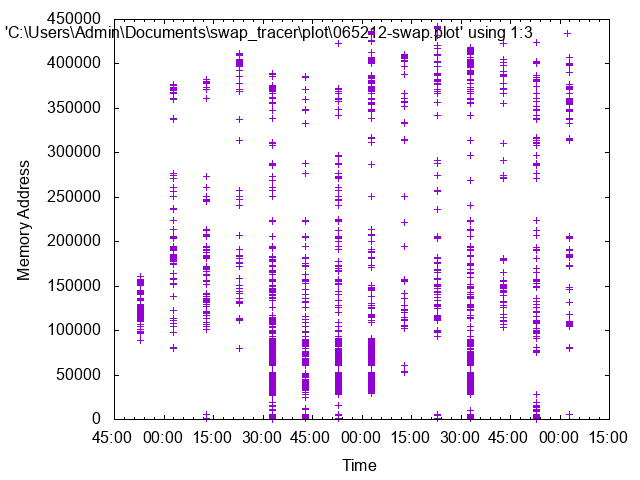
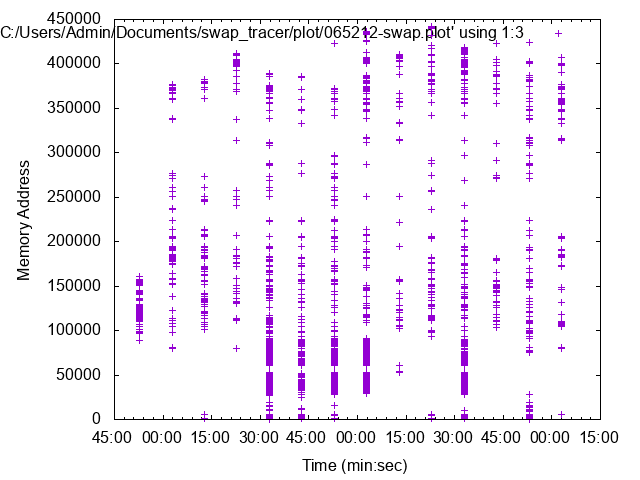
add time spec for gnu_script

diff --git a/README.md b/README.md
@@ -1,12 +1,12 @@
 # Swap Tracer
 ![swaptracer](./icon.png)
 
-Swap Tracer is an effective tool to visualize the change(swap) in memory and analyze it after executing the program. Currently, swap in/out and do_swap has been marked. 
+Swap Tracer is an effective tool to visualize the change(swap) in memory and analyze it after executing the program. Currently, swap in/out and do_swap has been marked.
 
 ## Environment/Requirement
 + os : centos 7 ( linux series are available. )
 + kernel : 5.1.14 ( older versions are available also.)  
-+ python : 2.7.5 
++ python : 2.7.5
 + [lazybox](https://github.com/sjp38/lazybox) : work of @sjp38, if needed for the limited memory usage(optional).
 + [gnuplot](http://www.gnuplot.info/) : a visualization tool (optional).
 
@@ -36,11 +36,13 @@ Since there might be a data locality, trace could be done in more abstracted mod
 Three logs will be generated per execution of run_swap_tracer.sh, **swap in**, **swap out** and **do_swap**, which will be in a form of array vector to plot to Gnuplot. Comparison of the three logs contains the data pattern of program's memory usage.
 
 ### plot
-After the execution, Tracer generates three files in the form **HHMMSS-[read|write|swap].plot**. These files contain rows of [date, time, address]. 
-> (swap in, swap out, do_swap) --> (read, write, swap)
+After the execution, Tracer generates three files in the form **HHMMSS-[read|write|swap].plot**. These files contain rows of [date, time, address].
+> swap in : read    
+> swap out : write   
+> do_swap : swap  
 
 ### graph
-With a gnuplot, Tracer visualizes memory access pattern. X-axis is a timeline of minute and second, while y-axis is a memory address. To use a gnuplot scripts will be as below:
+With a gnuplot, Tracer visualizes memory access pattern. X-axis is a timeline(minute:second), while y-axis is a memory address. To use a gnuplot scripts will be as below:
 ```
 load 'DIR/swap_tracer/gnuplot_script'
 
